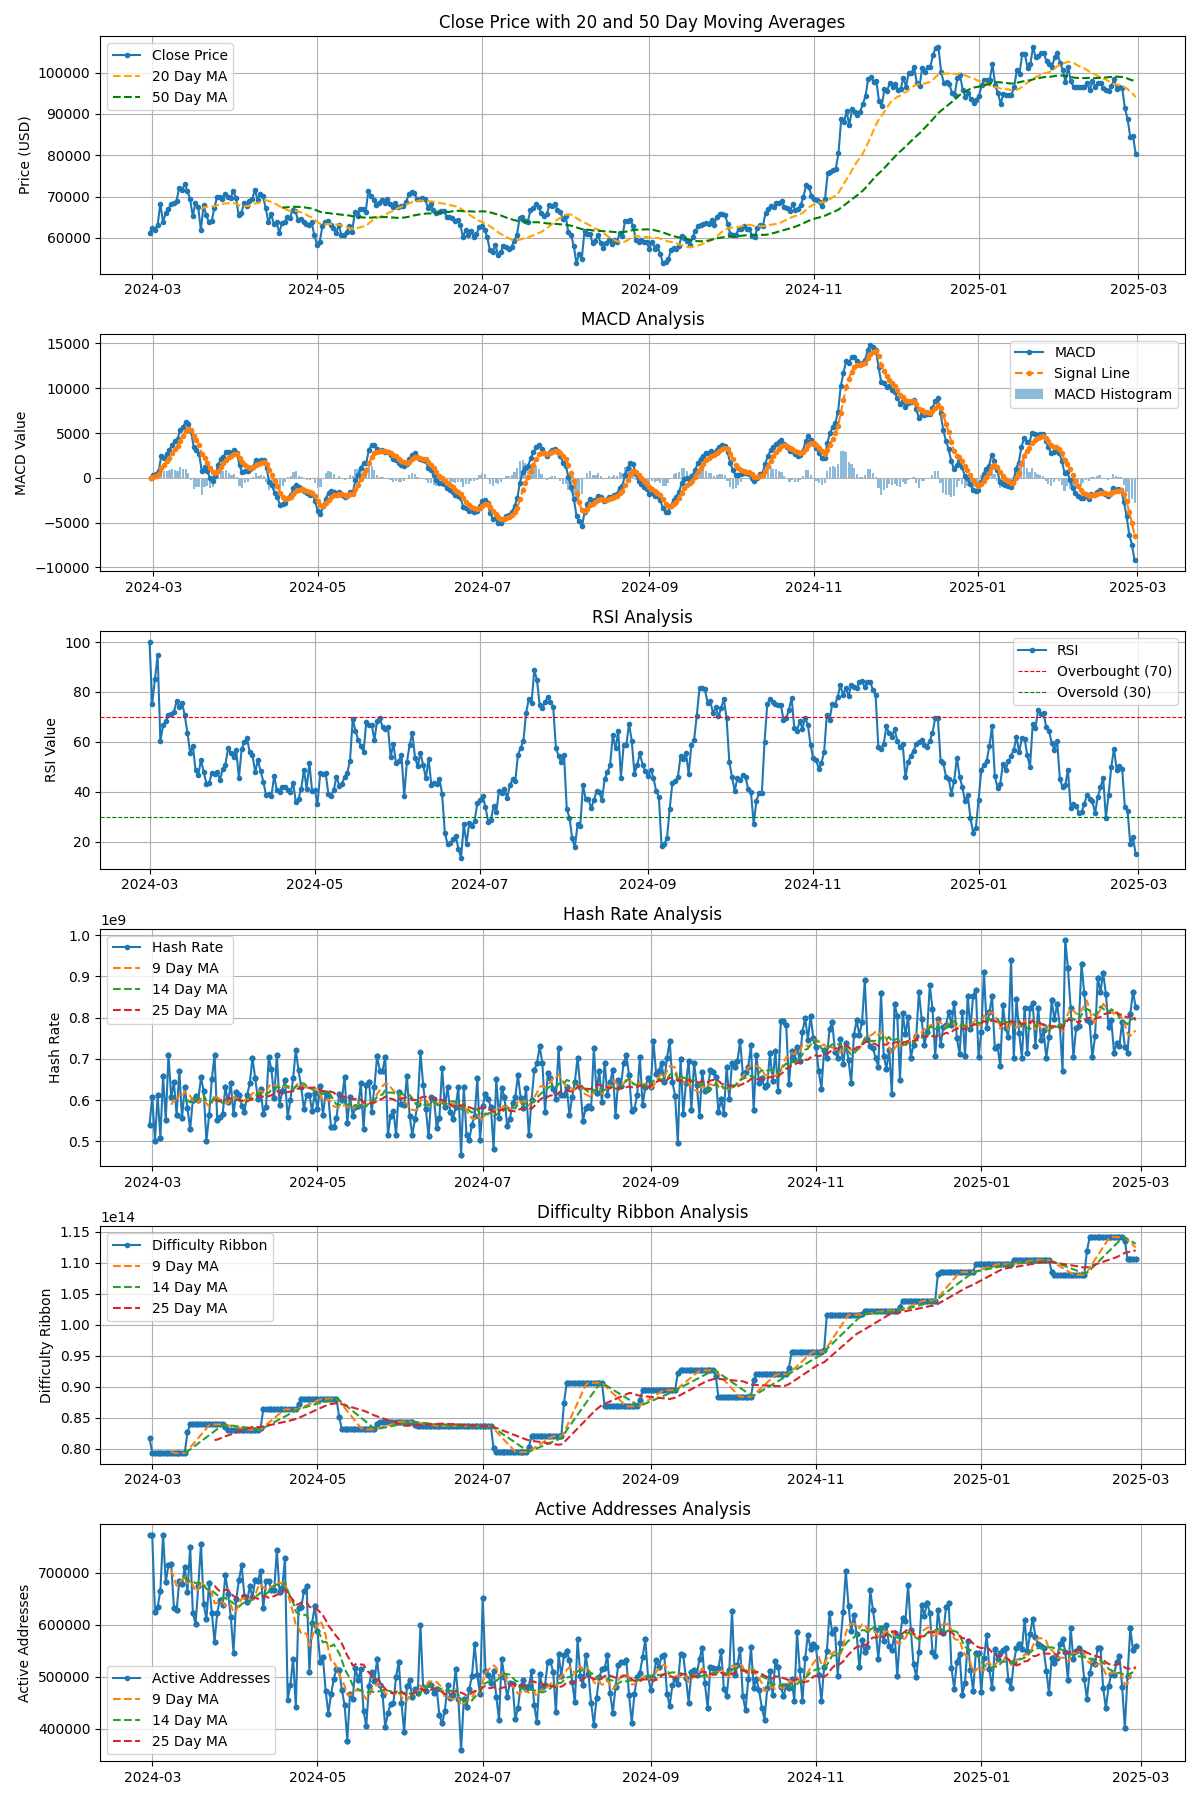
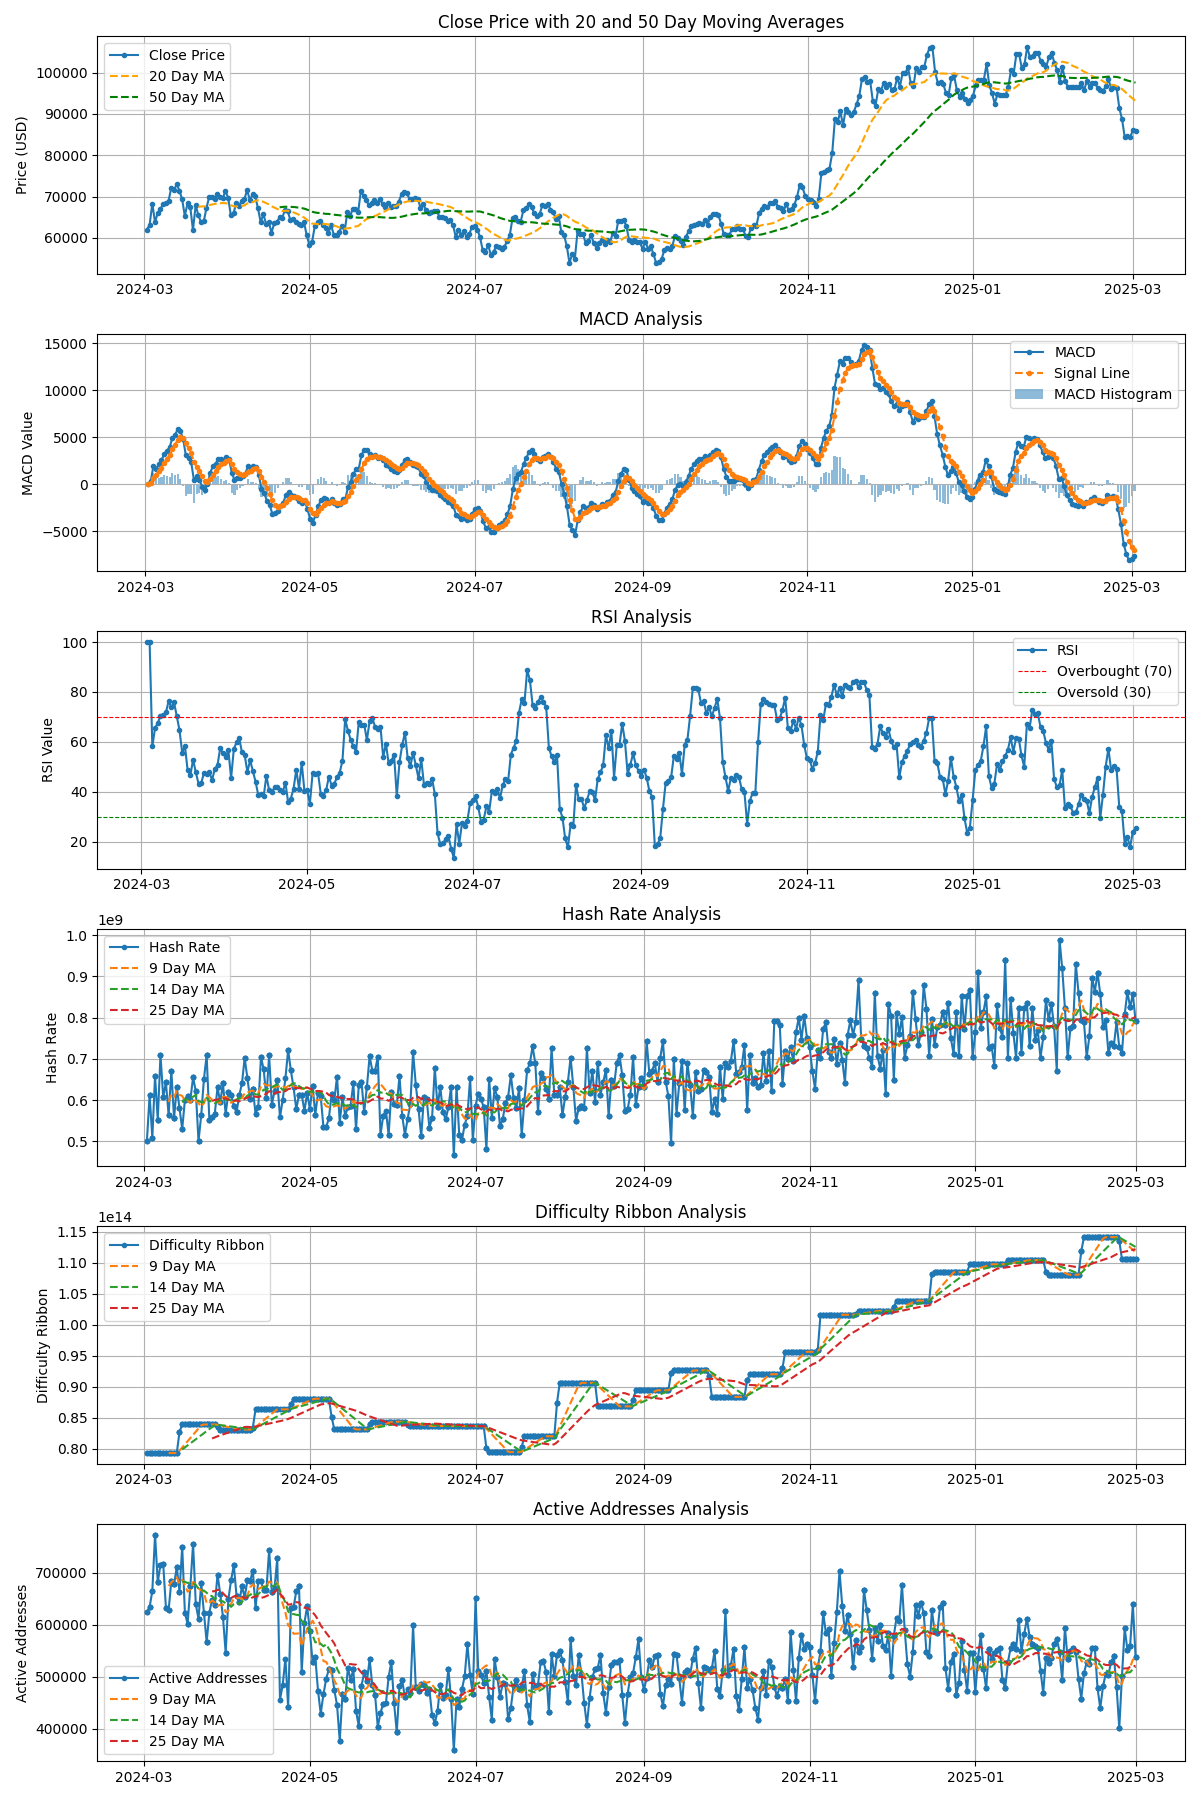
Production run

diff --git a/reports/merged_report.md b/reports/merged_report.md
@@ -1,3 +1,81 @@
+# Weekly Bitcoin Market Analysis Report
+
+## Date: 2025-03-02
+
+### Executive Summary:
+This week's Bitcoin market analysis reveals a neutral stance with a recommendation to hold, balancing potential market risks with prospective institutional supports. Despite bearish technical and volume indicators, the enduring institutional interest provides a counterweight that may stabilize the market. The support level is identified at $64,000, with resistance at $97,000, while the current price stands at approximately $85,879.91.
+
+---
+
+## 1. Overview of Analysts’ Weekly Findings:
+
+### Analyst A:
+- **Performance**: Bitcoin showed high volatility with fluctuating prices.
+- **Key Indicators**: Support at $64,000; resistance at $97,000.
+- **Market Sentiments**: Mixed, influenced by institutional adoption amidst regulatory uncertainties.
+- **Insights**: Institutional support fosters optimism, albeit tempered by regulatory and security concerns.
+- **Recommendation**: Hold
+- **Outlook Score**: 5
+
+### Analyst B:
+- **Current Price**: $85,879.91
+- **Trend**: Yearly increase noted; current trend appears bearish.
+- **Technical Indicators**: Bearish MACD, potential bearish moving average crossover.
+- **Evaluation**: 4 (Weak Sell)
+- **Recommendation**: Sell
+
+### Analyst C:
+- **Performance Summary**: Lower transaction volumes; missing latest hash rate data.
+- **Volume Analysis**: Slight decrease compared to previous records.
+- **Evaluation**: 4 (Weak Sell)
+- **Recommendation**: Sell
+
+## 2. Comparative Weekly Analysis:
+- **Similarities**: All analysts agree on Bitcoin's high volatility and current bearish trends.
+- **Differences**: Divergence in recommendations due to Analyst A's focus on institutional behaviors versus B and C's emphasis on technical and volume indicators.
+- **Approach Discrepancies**: Analyst A considers broader market influences, while Analysts B and C prioritize immediate technical data.
+
+## 3. Market Context and Current Sentiments:
+- **Economic Trends**: Global economic uncertainties continue to affect investor sentiments.
+- **Industry Factors**: Institutional movements are pivotal, though overshadowed by regulatory risks.
+- **Current Sentiment**: The market sentiment is mixed, influenced by potential regulatory changes and institutional investments.
+
+## 4. Historical Insights and Patterns:
+- **Previous Forecasts**: Consistent focus areas observed; Analyst A on institutional behaviors, Analyst B on technical downturns, and Analyst C on transaction volumes and network health.
+- **Observed Biases**: Analyst A shows cautious optimism influenced by institutional activities, whereas Analysts B and C are more reactive to technical and immediate data.
+
+## 5. Consolidated Weekly Recommendation:
+- **Recommendation**: Hold
+- **Rationale**: Given the bearish signals from technical indicators juxtaposed with supportive institutional behaviors, a balanced, cautious approach is advised.
+
+## 6. Overall Weekly Evaluation:
+- **Score**: 5
+- **Justification**: This score reflects a balanced viewpoint acknowledging both the potential risks from bearish technical indicators and the opportunities presented by institutional support.
+
+## 7. Conclusive Remarks:
+- **Final Recommendation**: Hold, with a score of 5, indicates a neutral market stance aimed at balancing risks and opportunities.
+- **Key Observations**: Support and resistance levels are crucial markers for future price movements.
+- **Comparative Analysis**: Emphasizes the significance of diverse analytical perspectives for a well-rounded market outlook.
+
+### Recommendation Summary Table:
+
+| Analyst     | Recommendation | Numerical Score |
+|-------------|----------------|-----------------|
+| Analyst A   | Hold           | 5               |
+| Analyst B   | Sell           | 4               |
+| Analyst C   | Sell           | 4               |
+| **Overall** | **Hold**       | **5**           |
+
+---
+
+**Investor Note**: Maintain current positions, monitor market developments closely, and be prepared to adjust strategies based on emerging information.
+
+---
+
+
+
+---
+
 # Bitcoin Market Analysis Report
 **Date: 2025-02-28**
 
@@ -77,10 +155,6 @@ Given the bearish sentiment underscored by technical indicators and the uncertai
 **Short-Term Trading Outlook Score**: 5
 
 This structured analysis integrates diverse viewpoints to facilitate informed decision-making in the volatile Bitcoin market, considering both immediate technical conditions and longer-term economic factors.
-
----
-
-
 
 ---
 
@@ -382,103 +456,6 @@ This week’s Bitcoin analysis underscores the complexity of current market cond
 **End of Report**
 
 *Investors are advised to maintain their positions and closely monitor market developments, leveraging both current analysis and historical insights.*
-
----
-
-# Weekly Bitcoin Market Analysis Report
-
-**Date:** 2025-02-22
-
----
-
-## Executive Summary
-
-This week's Bitcoin market analysis reveals a nuanced landscape influenced by promising institutional support and ongoing market uncertainties, such as regulatory hurdles and security concerns. Mixed signals from various technical indicators and market sentiments contribute to a neutral outlook for the upcoming week, with a **Hold** recommendation and a numerical score of **5**.
-
----
-
-## Overview of Analysts' Weekly Findings
-
-### Analyst A: Hold (Score: 5)
-- **Performance Assessment:** Mixed market dynamics, with strong institutional interest balanced by security concerns.
-- **Key Indicators:** Price resistance near $100,000, notable institutional buying at lower levels.
-- **Market Insight:** Resilience amid regulatory and security challenges.
-
-### Analyst B: Weak Buy (Score: 6.5)
-- **Performance Assessment:** Minor price decline; long-term growth trend remains intact.
-- **Key Indicators:** Below 50-day MA but above 200-day MA, indicating a positive long-term outlook despite short-term volatility.
-- **Market Insight:** Increased trading volume suggests robust market participation.
-
-### Analyst C: Weak Sell (Score: 3)
-- **Performance Assessment:** Focused on network health and transaction volumes which have declined.
-- **Key Indicators:** Improved hash rate contrasts with reduced transaction volumes.
-- **Market Insight:** Decreased market activity and bearish sentiment, despite stronger network security.
-
----
-
-## Comparative Weekly Analysis
-
-- **Consensus:** All analysts recognize the impact of institutional activities and regulatory developments on market dynamics, with $100,000 identified as a critical psychological and technical barrier.
-- **Divergence:**
-  - **Analyst A:** Views institutional support as a stabilizing factor.
-  - **Analyst B:** Leans on technical signals and trading volumes to support a weak buy.
-  - **Analyst C:** Emphasizes decreased activity and network metrics, suggesting a weak sell.
-
----
-
-## Market Context
-
-- **Economic Influence:** Persistent global economic uncertainties and inflation concerns shape investor sentiment.
-- **Industry Dynamics:** Technological advancements and broader adoption hint at a bullish future, though tempered by security and regulatory risks.
-- **Current Sentiment:** Mixed, with recent security breaches and positive institutional movements creating a cautious optimism.
-
----
-
-## Historical Weekly Analysis
-
-- **Trend Analysis:** Historically, periods of institutional support and recovery from market dips have led to cautious optimism.
-- **Analyst Behavior:**
-  - **Analyst A:** Consistently focuses on broader market trends and institutional influence.
-  - **Analyst B:** Reacts to technical indicators and trading volumes.
-  - **Analyst C:** Prioritizes network health and fundamental data.
-- **Consistency:** Historical data supports current evaluations, indicating consistent market reactions to similar conditions.
-
----
-
-## Weekly Recommendation
-
-**Final Recommendation:** Hold (Score: 5)
-
-**Rationale:**
-- A balanced perspective weighing potential growth drivers against prevailing market risks.
-- Support from institutional advancements and technology offers stability, while regulatory and security issues warrant caution.
-
----
-
-## Conclusion
-
-- **Key Indicators:** A mix of technical indicators underlined by significant institutional activities suggests potential market support.
-- **Market Context:** The ongoing interplay between bullish drivers and bearish risks advises a balanced trading strategy.
-- **Comparative Analysis:** The current market analysis aligns with historical behaviors, endorsing a prudent approach amidst mixed market signals.
-
-**Short-Term Trading Outlook Score:** 5
-
----
-
-## Recommendation Summary Table
-
-| **Analyst** | **Recommendation** | **Numerical Score** |
-|-------------|--------------------|---------------------|
-| Analyst A   | Hold               | 5                   |
-| Analyst B   | Weak Buy           | 6.5                 |
-| Analyst C   | Weak Sell          | 3                   |
-| **Overall** | **Hold**           | **5**               |
-
----
-
-**End of Report**
-
-*Investors are advised to maintain their positions and closely monitor upcoming market developments based on comprehensive current and historical analyses.*
 
 ---
 

diff --git a/reports/report-2025-03-02.md b/reports/report-2025-03-02.md
@@ -1,0 +1,71 @@
+# Weekly Bitcoin Market Analysis Report
+
+## Date: 2025-03-02
+
+### Executive Summary:
+This week's Bitcoin market analysis reveals a neutral stance with a recommendation to hold, balancing potential market risks with prospective institutional supports. Despite bearish technical and volume indicators, the enduring institutional interest provides a counterweight that may stabilize the market. The support level is identified at $64,000, with resistance at $97,000, while the current price stands at approximately $85,879.91.
+
+---
+
+## 1. Overview of Analysts’ Weekly Findings:
+
+### Analyst A:
+- **Performance**: Bitcoin showed high volatility with fluctuating prices.
+- **Key Indicators**: Support at $64,000; resistance at $97,000.
+- **Market Sentiments**: Mixed, influenced by institutional adoption amidst regulatory uncertainties.
+- **Insights**: Institutional support fosters optimism, albeit tempered by regulatory and security concerns.
+- **Recommendation**: Hold
+- **Outlook Score**: 5
+
+### Analyst B:
+- **Current Price**: $85,879.91
+- **Trend**: Yearly increase noted; current trend appears bearish.
+- **Technical Indicators**: Bearish MACD, potential bearish moving average crossover.
+- **Evaluation**: 4 (Weak Sell)
+- **Recommendation**: Sell
+
+### Analyst C:
+- **Performance Summary**: Lower transaction volumes; missing latest hash rate data.
+- **Volume Analysis**: Slight decrease compared to previous records.
+- **Evaluation**: 4 (Weak Sell)
+- **Recommendation**: Sell
+
+## 2. Comparative Weekly Analysis:
+- **Similarities**: All analysts agree on Bitcoin's high volatility and current bearish trends.
+- **Differences**: Divergence in recommendations due to Analyst A's focus on institutional behaviors versus B and C's emphasis on technical and volume indicators.
+- **Approach Discrepancies**: Analyst A considers broader market influences, while Analysts B and C prioritize immediate technical data.
+
+## 3. Market Context and Current Sentiments:
+- **Economic Trends**: Global economic uncertainties continue to affect investor sentiments.
+- **Industry Factors**: Institutional movements are pivotal, though overshadowed by regulatory risks.
+- **Current Sentiment**: The market sentiment is mixed, influenced by potential regulatory changes and institutional investments.
+
+## 4. Historical Insights and Patterns:
+- **Previous Forecasts**: Consistent focus areas observed; Analyst A on institutional behaviors, Analyst B on technical downturns, and Analyst C on transaction volumes and network health.
+- **Observed Biases**: Analyst A shows cautious optimism influenced by institutional activities, whereas Analysts B and C are more reactive to technical and immediate data.
+
+## 5. Consolidated Weekly Recommendation:
+- **Recommendation**: Hold
+- **Rationale**: Given the bearish signals from technical indicators juxtaposed with supportive institutional behaviors, a balanced, cautious approach is advised.
+
+## 6. Overall Weekly Evaluation:
+- **Score**: 5
+- **Justification**: This score reflects a balanced viewpoint acknowledging both the potential risks from bearish technical indicators and the opportunities presented by institutional support.
+
+## 7. Conclusive Remarks:
+- **Final Recommendation**: Hold, with a score of 5, indicates a neutral market stance aimed at balancing risks and opportunities.
+- **Key Observations**: Support and resistance levels are crucial markers for future price movements.
+- **Comparative Analysis**: Emphasizes the significance of diverse analytical perspectives for a well-rounded market outlook.
+
+### Recommendation Summary Table:
+
+| Analyst     | Recommendation | Numerical Score |
+|-------------|----------------|-----------------|
+| Analyst A   | Hold           | 5               |
+| Analyst B   | Sell           | 4               |
+| Analyst C   | Sell           | 4               |
+| **Overall** | **Hold**       | **5**           |
+
+---
+
+**Investor Note**: Maintain current positions, monitor market developments closely, and be prepared to adjust strategies based on emerging information.
